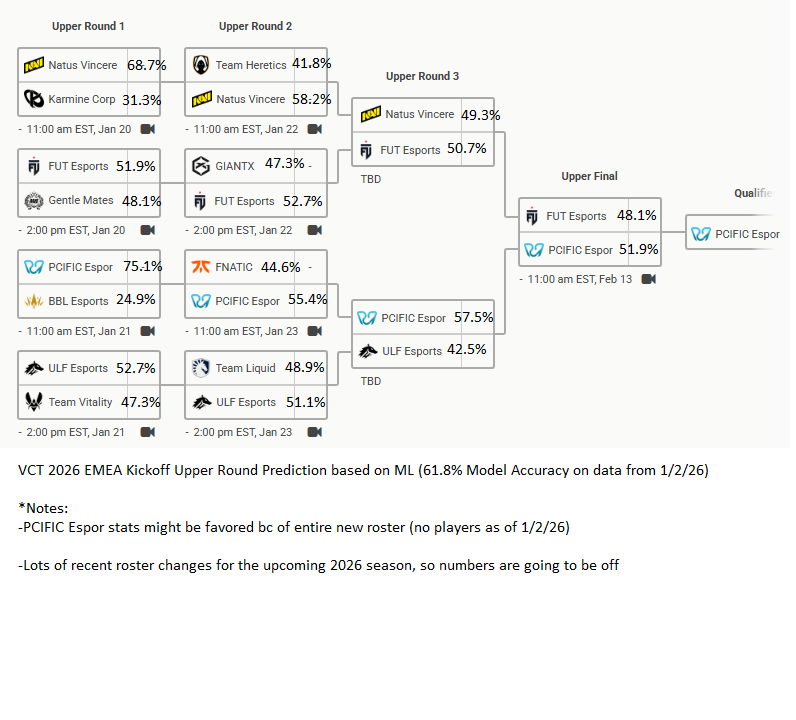
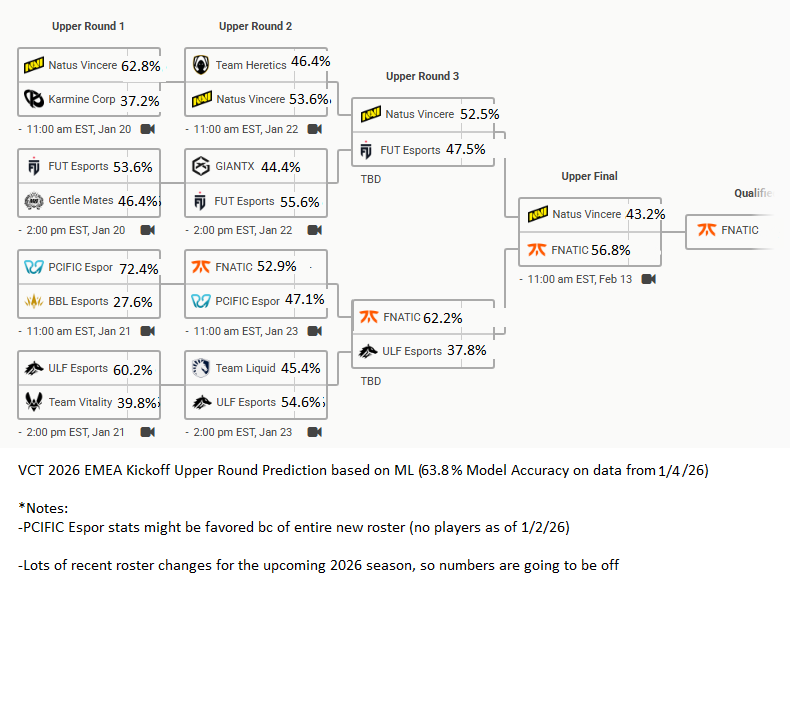
updated predictions with 63.8% mod acc

diff --git a/README.md b/README.md
@@ -12,7 +12,7 @@ Order of Files to Run:
 
 ## TODO Before Building Model
 
-- v1 (61.8% Accuracy on Model as of 1/2/2026 - .1 learning rate, 100 n_estimators)
+- v1 (63.8% Accuracy on Model as of 1/4/2026)
     - [x] scrape map score for each map in a match
     - [x] train on winrate/ winrate diff, form/ form differential, round diff (when winning/losing)/ round diff differential
     - [ ] vlr incldude team map stats -> not needed bc we do not know what map are being played until the day of the event
